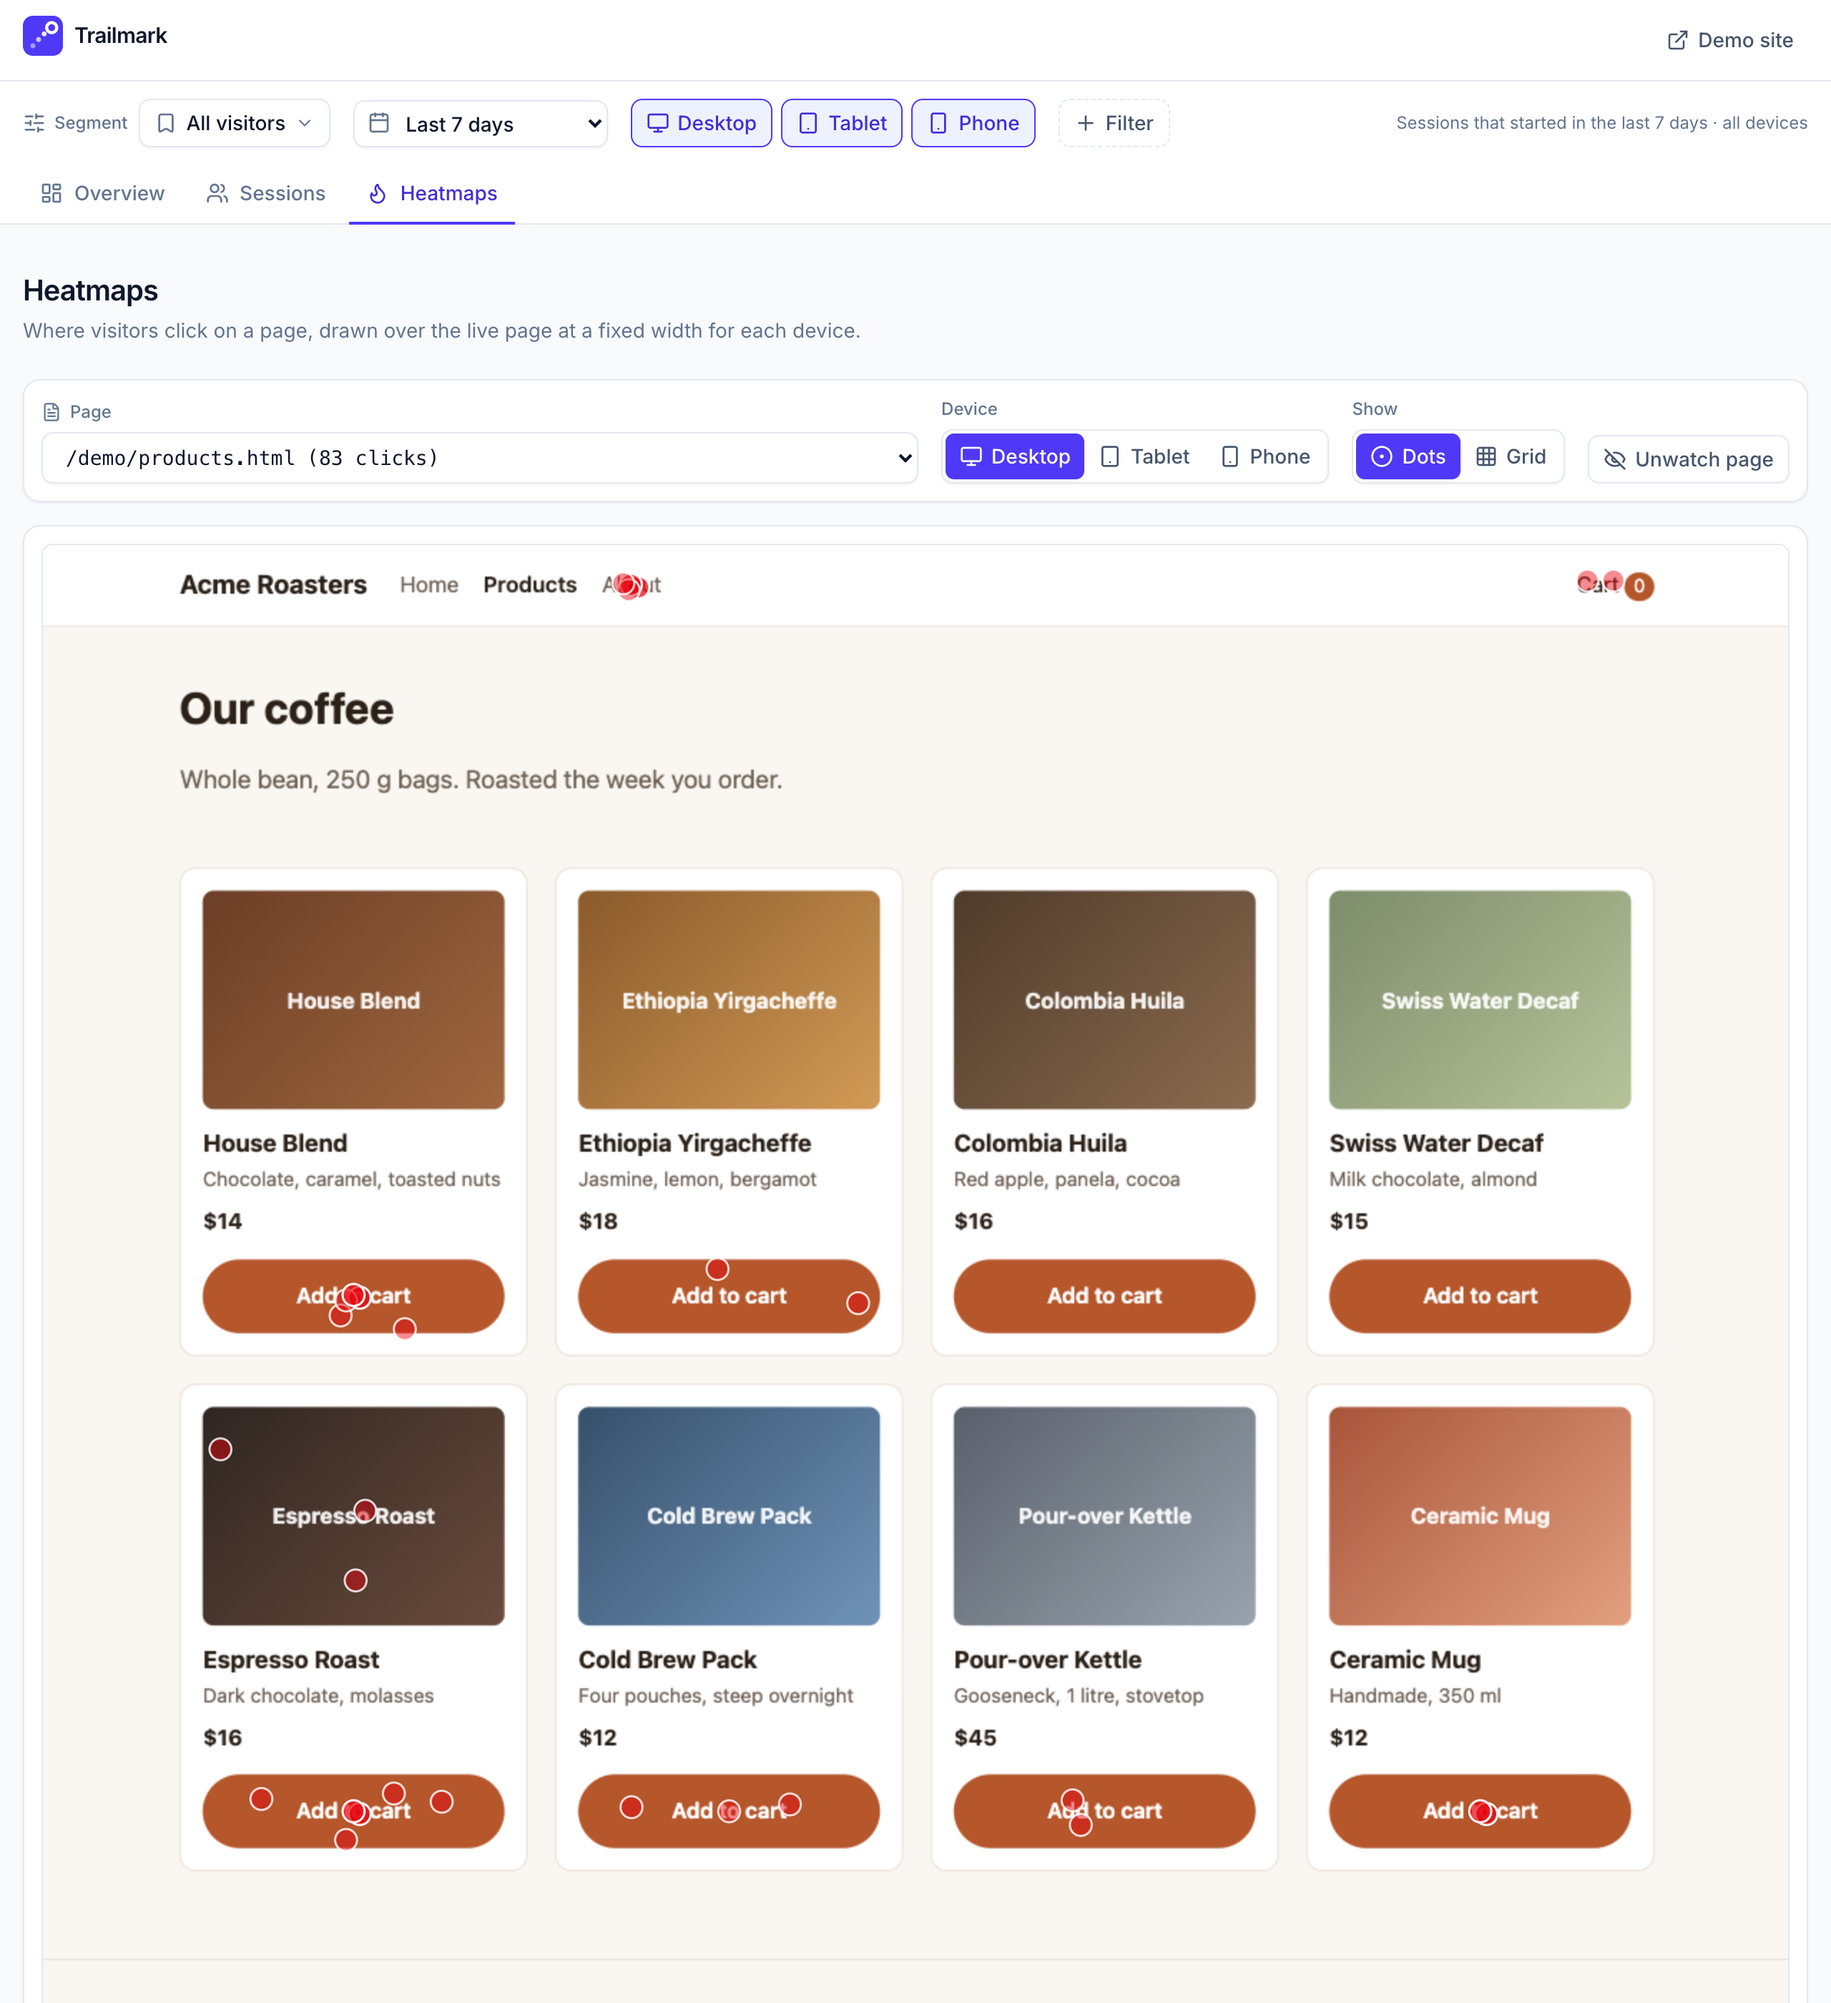
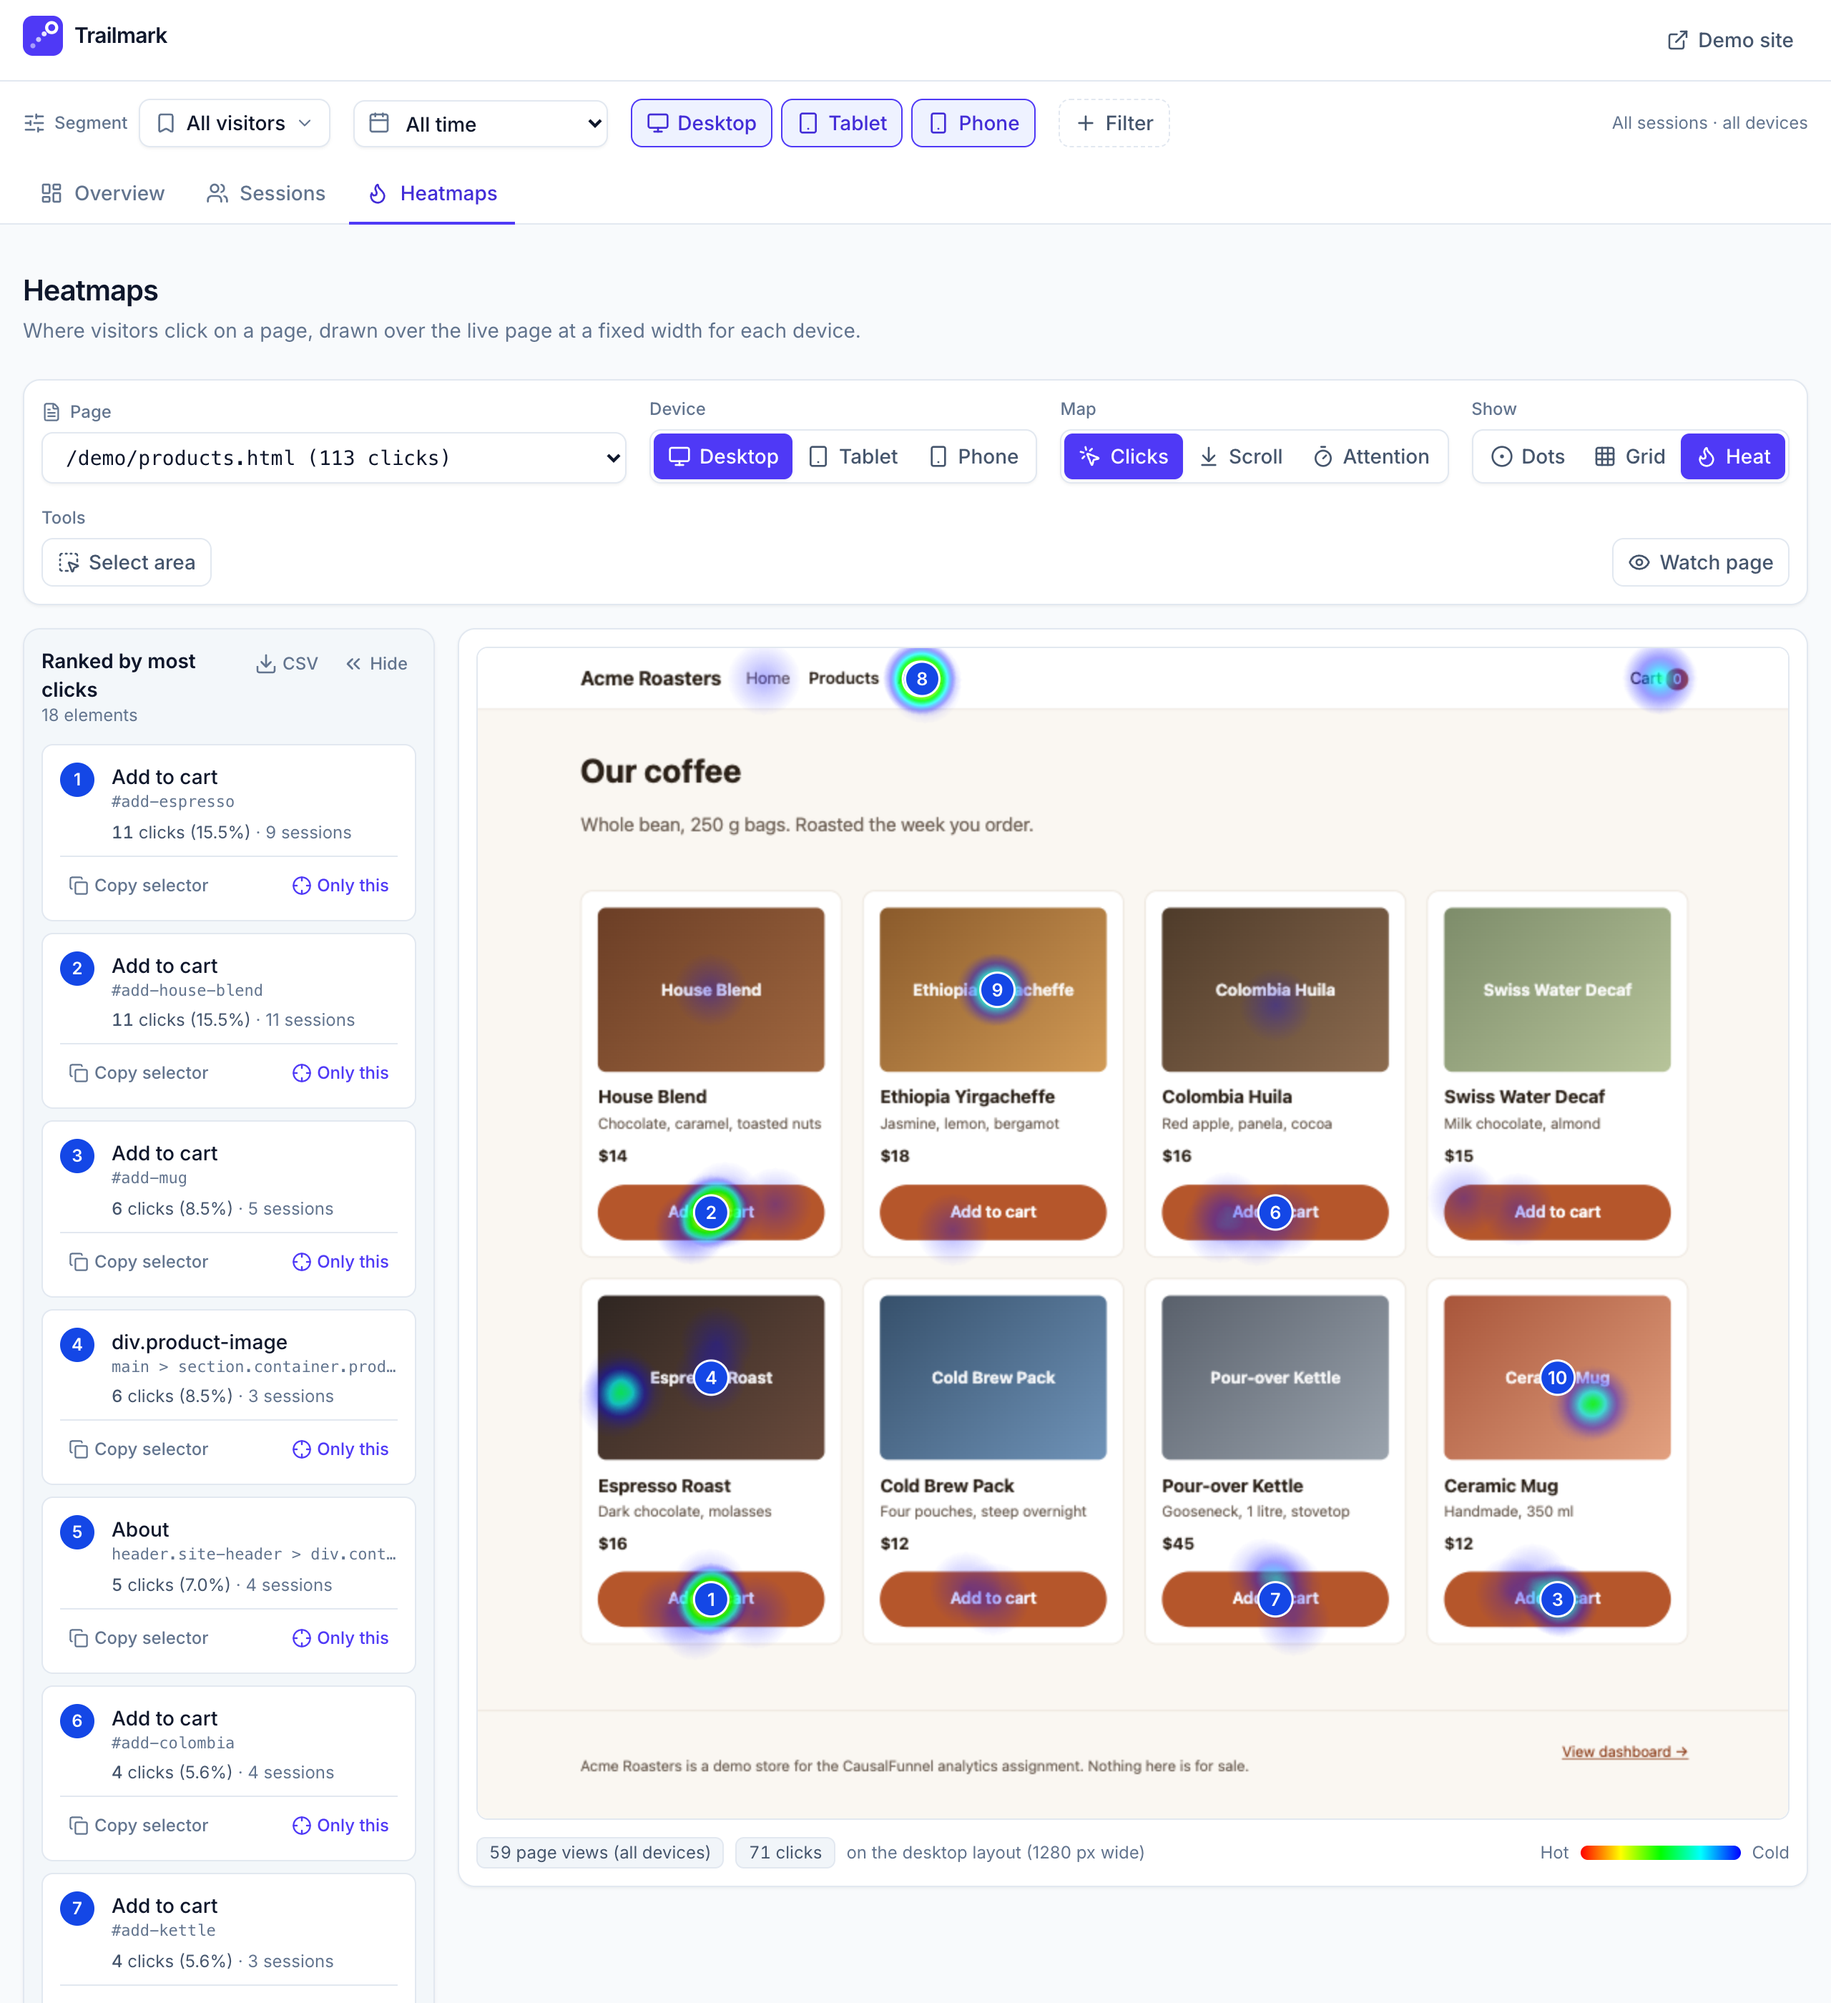
docs: README and screenshots for Trailmark v2
Screenshots retaken from fresh local seed data (insight cards, session
chips, journey markers, Heat with ranked elements); intro and next steps
updated, M6 listed as planned work.

diff --git a/README.md b/README.md
@@ -2,10 +2,13 @@
 
 Trailmark is a small full-stack analytics app, built as the take-home for
 CausalFunnel's Full Stack Engineer role. A dependency-free script (`tracker.js`) records
-`page_view` and `click` events on any web page and sends them to a Node/Express
-API, which validates them and stores them in MongoDB. A Next.js dashboard lists
-the sessions, replays each one as an ordered user journey, and draws a
-per-page click heatmap over the page itself. A three-page demo shop (Acme
+`page_view` and `click` events on any web page (plus a `page_exit` summary of
+each page view) and sends them to a Node/Express API, which validates them and
+stores them in MongoDB. A Next.js dashboard lists the sessions, replays each one
+as an ordered user journey, and draws per-page click heatmaps over the page
+itself. Beyond the brief: segment filters, frustration insights (rage clicks,
+dead clicks, quick backs, excessive scrolling), ranked elements, and scroll and
+attention maps. A three-page demo shop (Acme
 Roasters, fictional) and a seed script supply data to look at.
 
 **Live:** [Dashboard](https://useranalytics-dashboard.vercel.app) ·
@@ -934,12 +937,15 @@ collection, the API then builds it from the events.
   the rate limit once there is more than one server instance.
 - **Reliable ingestion:** a client `event_id` with a unique index, so the
   tracker can retry failed batches without creating duplicates.
-- **Better heatmaps:** store each click relative to its element (a CSS
-  selector plus an offset), so clicks map onto any layout. Also scroll-depth
-  events.
+- **Better heatmaps:** place each click relative to its element (its selector
+  and box are already recorded), so clicks map onto any layout.
+- **Planned next (Trailmark v2, M6 in `docs/v2-plan.md`):** custom tags
+  (`window.trailmark.tag`), session labels, comparing two segments side by
+  side, privacy opt-outs (`data-cf-ignore` on elements, `data-strip-query` on
+  the script tag), and "sessions that clicked this element" from the heatmap.
 - **Retention:** a TTL index on events, with their session summaries removed
   alongside.
-- **Tracker:** single-page-app support (`history.pushState` and `popstate`).
+- **Tracker:** single-page-app page views (`history.pushState` and `popstate`).
 - **Live updates:** server-sent events or websockets instead of polling.
 - **Tests:** a Playwright smoke test of the dashboard in a real browser.
 
